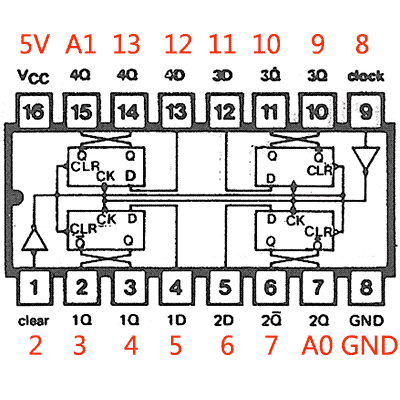
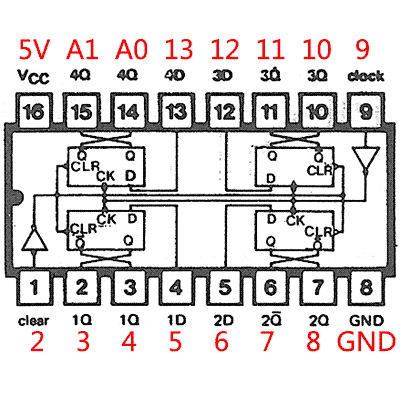
Add port/pin relation table to support 16pin chips like 74175

diff --git a/htdocs/res/script-chipdata.js b/htdocs/res/script-chipdata.js
@@ -3,6 +3,22 @@ var chip = [
         'name': 'NAND2 - SN[54/74]00 Series',
         'img': '7400.png',
         'type': 'general',
+        'pinPort': {
+            1:'2',
+            2:'3',
+            3:'4',
+            4:'5',
+            5:'6',
+            6:'7',
+            7:'/',
+            8:'8',
+            9:'9',
+            10:':',
+            11:';',
+            12:'<',
+            13:'=',
+            14:'/'
+        },
         'set': [{
             'writeTo': [1,2],
             'readFrom': 3,
@@ -25,6 +41,22 @@ var chip = [
         'name': 'NOR2 - SN[54/74]02 Series',
         'img': '7402.png',
         'type': 'general',
+        'pinPort': {
+            1:'2',
+            2:'3',
+            3:'4',
+            4:'5',
+            5:'6',
+            6:'7',
+            7:'/',
+            8:'8',
+            9:'9',
+            10:':',
+            11:';',
+            12:'<',
+            13:'=',
+            14:'/'
+        },
         'set': [{
             'writeTo': [2,3],
             'readFrom': 1,
@@ -47,6 +79,22 @@ var chip = [
         'name': 'NOT - SN[54/74]04 Series',
         'img': '7404.png',
         'type': 'general',
+        'pinPort': {
+            1:'2',
+            2:'3',
+            3:'4',
+            4:'5',
+            5:'6',
+            6:'7',
+            7:'/',
+            8:'8',
+            9:'9',
+            10:':',
+            11:';',
+            12:'<',
+            13:'=',
+            14:'/'
+        },
         'set': [{
             'writeTo': [1],
             'readFrom': 2,
@@ -77,6 +125,22 @@ var chip = [
         'name': 'NAND3 - SN[54/74]10 Series',
         'img': '7410.png',
         'type': 'general',
+        'pinPort': {
+            1:'2',
+            2:'3',
+            3:'4',
+            4:'5',
+            5:'6',
+            6:'7',
+            7:'/',
+            8:'8',
+            9:'9',
+            10:':',
+            11:';',
+            12:'<',
+            13:'=',
+            14:'/'
+        },
         'set': [{
             'writeTo': [1,2,13],
             'readFrom': 12,
@@ -95,6 +159,22 @@ var chip = [
         'name': 'NAND4 - SN[54/74]20 Series',
         'img': '7420.png',
         'type': 'general',
+        'pinPort': {
+            1:'2',
+            2:'3',
+            3:'4',
+            4:'5',
+            5:'6',
+            6:'7',
+            7:'/',
+            8:'8',
+            9:'9',
+            10:':',
+            11:';',
+            12:'<',
+            13:'=',
+            14:'/'
+        },
         'set': [{
             'writeTo': [1,2,4,5],
             'readFrom': 6,
@@ -109,6 +189,22 @@ var chip = [
         'name': 'NOR3 - SN[54/74]27 Series',
         'img': '7427.png',
         'type': 'general',
+        'pinPort': {
+            1:'2',
+            2:'3',
+            3:'4',
+            4:'5',
+            5:'6',
+            6:'7',
+            7:'/',
+            8:'8',
+            9:'9',
+            10:':',
+            11:';',
+            12:'<',
+            13:'=',
+            14:'/'
+        },
         'set': [{
             'writeTo': [1,2,13],
             'readFrom': 12,
@@ -127,6 +223,22 @@ var chip = [
         'name': 'DFF - SN[54/74]74 Series',
         'img': '7474.png',
         'type': 'direct',
+        'pinPort': {
+            1:'2',
+            2:'3',
+            3:'4',
+            4:'5',
+            5:'6',
+            6:'7',
+            7:'/',
+            8:'8',
+            9:'9',
+            10:':',
+            11:';',
+            12:'<',
+            13:'=',
+            14:'/'
+        },
         'set': [
             /* DFF left-bottom */
             { /* DFF: Preset to HIGH */
@@ -186,107 +298,125 @@ var chip = [
         'name': 'DFF - SN[54/74]175 Series',
         'img': '74175.png',
         'type': 'direct',
+        'pinPort': {
+            1:'2',
+            2:'3',
+            3:'4',
+            4:'5',
+            5:'6',
+            6:'7',
+            7:'8',
+            8:'/',
+            9:'9',
+            10:':',
+            11:';',
+            12:'<',
+            13:'=',
+            14:'>',
+            15:'?',
+            16:'/'
+        },
         'set': [
             /* Test clearing and inverted output */
             {
                 'comment': 'LEFT-BOTTOM: Clear, test Q',
-                'setHigh': [1], 'setLow': [4,5,8,11,12], 'readFrom': 2, 'result': '0'
+                'setHigh': [1], 'setLow': [4,5,9,12,13], 'readFrom': 2, 'result': '0'
             },
             {
                 'comment': 'LEFT-BOTTOM: Clear, test Q\'',
-                'setHigh': [1], 'setLow': [4,5,8,11,12], 'readFrom': 3, 'result': '1'
+                'setHigh': [1], 'setLow': [4,5,9,12,13], 'readFrom': 3, 'result': '1'
             },
             {
                 'comment': 'RIGHT-BOTTOM: Clear, test Q',
-                'setHigh': [1], 'setLow': [4,5,8,11,12], 'readFrom': 15, 'result': '0'
+                'setHigh': [1], 'setLow': [4,5,9,12,13], 'readFrom': 7, 'result': '0'
             },
             {
                 'comment': 'RIGHT-BOTTOM: Clear, test Q\'',
-                'setHigh': [1], 'setLow': [4,5,8,11,12], 'readFrom': 6, 'result': '1'
+                'setHigh': [1], 'setLow': [4,5,9,12,13], 'readFrom': 6, 'result': '1'
             },
             {
                 'comment': 'RIGHT-TOP: Clear, test Q',
-                'setHigh': [1], 'setLow': [4,5,8,11,12], 'readFrom': 9, 'result': '0'
+                'setHigh': [1], 'setLow': [4,5,9,12,13], 'readFrom': 10, 'result': '0'
             },
             {
                 'comment': 'RIGHT-TOP: Clear, test Q\'',
-                'setHigh': [1], 'setLow': [4,5,8,11,12], 'readFrom': 10, 'result': '1'
+                'setHigh': [1], 'setLow': [4,5,9,12,13], 'readFrom': 11, 'result': '1'
             },
             {
                 'comment': 'LEFT-TOP: Clear, test Q',
-                'setHigh': [1], 'setLow': [4,5,8,11,12], 'readFrom': 13, 'result': '0'
+                'setHigh': [1], 'setLow': [4,5,9,12,13], 'readFrom': 15, 'result': '0'
             },
             {
                 'comment': 'LEFT-TOP: Clear, test Q\'',
-                'setHigh': [1], 'setLow': [4,5,8,11,12], 'readFrom': 16, 'result': '1'
+                'setHigh': [1], 'setLow': [4,5,9,12,13], 'readFrom': 14, 'result': '1'
             },
             /* Test HIGH, before tick */
             {
                 'comment': 'LEFT-BOTTOM: Set to HIGH, no tick',
-                'setHigh': [4,5,11,12], 'setLow': [1,8], 'readFrom': 2, 'result': '0'
+                'setHigh': [4,5,12,13], 'setLow': [1,9], 'readFrom': 2, 'result': '0'
             },
             {
                 'comment': 'RIGHT-BOTTOM: Set to HIGH, no tick',
-                'setHigh': [4,5,11,12], 'setLow': [1,8], 'readFrom': 15, 'result': '0'
+                'setHigh': [4,5,12,13], 'setLow': [1,9], 'readFrom': 7, 'result': '0'
             },
             {
                 'comment': 'RIGHT-TOP: Set to HIGH, no tick',
-                'setHigh': [4,5,11,12], 'setLow': [1,8], 'readFrom': 9, 'result': '0'
+                'setHigh': [4,5,12,13], 'setLow': [1,9], 'readFrom': 10, 'result': '0'
             },
             {
                 'comment': 'LEFT-TOP: Set to HIGH, no tick',
-                'setHigh': [4,5,11,12], 'setLow': [1,8], 'readFrom': 13, 'result': '0'
+                'setHigh': [4,5,12,13], 'setLow': [1,9], 'readFrom': 15, 'result': '0'
             },
             /* Test HIGH, after tick */
             {
                 'comment': 'LEFT-BOTTOM: Set to HIGH, CLK tick',
-                'setHigh': [4,5,8,11,12], 'setLow': [1], 'readFrom': 2, 'result': '1'
+                'setHigh': [4,5,9,12,13], 'setLow': [1], 'readFrom': 2, 'result': '1'
             },
             {
                 'comment': 'RIGHT-BOTTOM: Set to HIGH, CLK tick',
-                'setHigh': [4,5,8,11,12], 'setLow': [1], 'readFrom': 15, 'result': '1'
+                'setHigh': [4,5,9,12,13], 'setLow': [1], 'readFrom': 7, 'result': '1'
             },
             {
                 'comment': 'RIGHT-TOP: Set to HIGH, CLK tick',
-                'setHigh': [4,5,8,11,12], 'setLow': [1], 'readFrom': 9, 'result': '1'
+                'setHigh': [4,5,9,12,13], 'setLow': [1], 'readFrom': 10, 'result': '1'
             },
             {
                 'comment': 'LEFT-TOP: Set to HIGH, CLK tick',
-                'setHigh': [4,5,8,11,12], 'setLow': [1], 'readFrom': 13, 'result': '1'
+                'setHigh': [4,5,9,12,13], 'setLow': [1], 'readFrom': 15, 'result': '1'
             },
             /* Test LOW, before tick */
             {
-                'comment': 'LEFT-BOTTOM: Set to HIGH, no tick',
-                'setHigh': [], 'setLow': [1,4,5,8,11,12], 'readFrom': 2, 'result': '0'
+                'comment': 'LEFT-BOTTOM: Set to LOW, no tick',
+                'setHigh': [], 'setLow': [1,4,5,9,12,13], 'readFrom': 2, 'result': '0'
             },
             {
-                'comment': 'RIGHT-BOTTOM: Set to HIGH, no tick',
-                'setHigh': [], 'setLow': [1,4,5,8,11,12], 'readFrom': 15, 'result': '0'
+                'comment': 'RIGHT-BOTTOM: Set to LOW, no tick',
+                'setHigh': [], 'setLow': [1,4,5,9,12,13], 'readFrom': 7, 'result': '0'
             },
             {
-                'comment': 'RIGHT-TOP: Set to HIGH, no tick',
-                'setHigh': [], 'setLow': [1,4,5,8,11,12], 'readFrom': 9, 'result': '0'
+                'comment': 'RIGHT-TOP: Set to LOW, no tick',
+                'setHigh': [], 'setLow': [1,4,5,9,12,13], 'readFrom': 10, 'result': '0'
             },
             {
-                'comment': 'LEFT-TOP: Set to HIGH, no tick',
-                'setHigh': [], 'setLow': [1,4,5,8,11,12], 'readFrom': 13, 'result': '0'
+                'comment': 'LEFT-TOP: Set to LOW, no tick',
+                'setHigh': [], 'setLow': [1,4,5,9,12,13], 'readFrom': 15, 'result': '0'
             },
             /* Test LOW, after tick */
             {
-                'comment': 'LEFT-BOTTOM: Set to HIGH, CLK tick',
-                'setHigh': [8], 'setLow': [1,4,5,11,12], 'readFrom': 2, 'result': '1'
+                'comment': 'LEFT-BOTTOM: Set to LOW, CLK tick',
+                'setHigh': [9], 'setLow': [1,4,5,12,13], 'readFrom': 2, 'result': '1'
             },
             {
-                'comment': 'RIGHT-BOTTOM: Set to HIGH, CLK tick',
-                'setHigh': [8], 'setLow': [1,4,5,11,12], 'readFrom': 15, 'result': '1'
+                'comment': 'RIGHT-BOTTOM: Set to LOW, CLK tick',
+                'setHigh': [9], 'setLow': [1,4,5,12,13], 'readFrom': 7, 'result': '1'
             },
             {
-                'comment': 'RIGHT-TOP: Set to HIGH, CLK tick',
-                'setHigh': [8], 'setLow': [1,4,5,11,12], 'readFrom': 9, 'result': '1'
+                'comment': 'RIGHT-TOP: Set to LOW, CLK tick',
+                'setHigh': [9], 'setLow': [1,4,5,12,13], 'readFrom': 10, 'result': '1'
             },
             {
-                'comment': 'LEFT-TOP: Set to HIGH, CLK tick',
-                'setHigh': [8], 'setLow': [1,4,5,11,12], 'readFrom': 13, 'result': '1'
+                'comment': 'LEFT-TOP: Set to LOW, CLK tick',
+                'setHigh': [9], 'setLow': [1,4,5,12,13], 'readFrom': 15, 'result': '1'
             }
         ]
     }

diff --git a/htdocs/res/script.js b/htdocs/res/script.js
@@ -331,34 +331,7 @@ function findGate(data) {
  * waiting for Arduino's reply.
  */
 function checkChip(id) {
-    /* char getArduinoPinFromChipPin(int chipPin)
-     * Converts Chip Pin to corresponding Arduino Pins.
-     */
-    function getArduinoPinFromChipPin(chipPin) {
-        switch(chipPin) {
-            case 1: return 2;
-            case 2: return 3;
-            case 3: return 4;
-            case 4: return 5;
-            case 5: return 6;
-            case 6: return 7;
-            case 7: return '/';
-            case 8: return 8;
-            case 9: return 9;
-            case 10: return ':';
-            case 11: return ';';
-            case 12: return '<';
-            case 13: return '=';
-            case 14: return '/';
-            case 15: return '>';
-            case 16: return '?';
-            case 17: return '@';
-            case 18: return 'A';
-            case 19: return 'B';
-            case 20: return 'C';
-        }
-        return '/';
-    }
+    var chipPinPort = chip[id]['pinPort'];
     var chipSet = chip[id]['set'];
     var command = "";
     batchId = id;
@@ -382,22 +355,22 @@ function checkChip(id) {
         /* Use truth table to check chip */
         /* Use sendWs to avoid unnecessary port config report */
         for(var j = 0; j < chipSet[batchStep]['writeTo'].length; j++) {
-            command += 'C' + (j+1) + getArduinoPinFromChipPin(chipSet[batchStep]['writeTo'][j]);
+            command += 'C' + (j+1) + chipPinPort[chipSet[batchStep]['writeTo'][j]];
         }
         for(var j = chipSet[batchStep]['writeTo'].length; j < 4; j++) {
             command += 'C' + (j+1) + '/';
         }
-        command += 'C5' + getArduinoPinFromChipPin(chipSet[batchStep]['readFrom']) + 'S' + chipSet[batchStep]['writeTo'].length;
+        command += 'C5' + chipPinPort[chipSet[batchStep]['readFrom']] + 'S' + chipSet[batchStep]['writeTo'].length;
         sendWs(command);
     } else if(chip[id]['type'] == 'direct') {
         /* Use direct digital operations to check chips, especially flip flops */
         for(var j = 0; j < chipSet[batchStep]['setHigh'].length; j++) {
-            command += 'H' + getArduinoPinFromChipPin(chipSet[batchStep]['setHigh'][j]);
+            command += 'H' + chipPinPort[chipSet[batchStep]['setHigh'][j]];
         }
         for(var j = 0; j < chipSet[batchStep]['setLow'].length; j++) {
-            command += 'L' + getArduinoPinFromChipPin(chipSet[batchStep]['setLow'][j]);
+            command += 'L' + chipPinPort[chipSet[batchStep]['setLow'][j]];
         }
-        command += 'R' + getArduinoPinFromChipPin(chipSet[batchStep]['readFrom']);
+        command += 'R' + chipPinPort[chipSet[batchStep]['readFrom']];
         sendWs(command);
     }
 }
